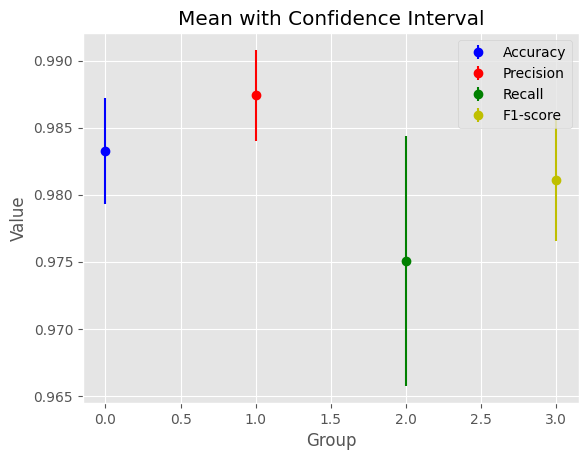
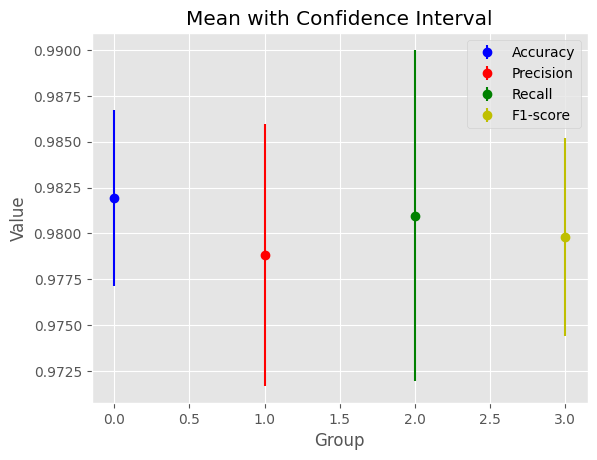
Report NN

diff --git a/report/chapters/reteNeurale.tex b/report/chapters/reteNeurale.tex
@@ -1,4 +1,4 @@
-% TODO: Aggiungere commenti ai risultati ottenuti
+% TODO: Commento intervalli di confidenza
 % TODO: rileggere la parte relativa ai risultati ottenuti
 % TODO: Confronto con il percettrone
 \chapter{Rete neurale} \label{chp:reteNeurale}
@@ -203,22 +203,32 @@ training set precedentemente definito. L'addestramento della rete neurale è sta
 effettuato utilizzando la libreria \textit{Keras} in quanto permette di definire 
 e addestrare reti neurali in modo intuitivo.
 \section{Risultati}
-Il modello addestrato in precedenza è stato valutato sui dati che compongono il
-test set. In particolare sono state valutate le seguenti metriche: accuratezza,
-precisione, richiamo e F1 score. Oltre al calcolo di queste metriche, si è
-deciso di realizzare la curva ROC per il modello e di rappresentare la matrice
-di confusione.
+Vista il dominio del problema, ovvero la classificazione di dati medici, si è
+deciso di modificare manualmente il valore della soglia per la predizione 
+del tumore. Questa scelta è stata fatta in quanto si è voluto ridurre al minimo 
+il numero di falsi negativi, ovvero il numero di casi in cui il modello predice
+l'assenza di tumore quando in realtà è presente.
 
-Prima di presentare i risultati ottenuti, è necessario specificare che essendo
-il dataset riferito a un ambito medico, si è deciso di aggiustare il valore di
-threshold per la predizione del modello. In particolare, il valore di threshold
-è stato impostato a $0.3$, in modo tale da ridurre il numero di falsi negativi.
+Per realizzare questa operazione si è scelto di impostare il valore di threshold
+a $0.3$, in modo tale da ridurre il numero di falsi negativi. Questa scelta è
+stata fatta in quanto si è voluto dare più importanza al valore di richiamo, il
+quale permette di valutare la capacità del modello di individuare i veri positivi.
 
 Fatta questa precisazione, si può procedere con la presentazione dei risultati
-ottenuti. In particolare, nella tabella \ref{tab:risultatiReteNeurale} sono
-presentati i risultati ottenuti dal modello addestrato.
-
-\begin{table}[ht]
+ottenuti. Utilizzando i dati del test set, è stato possibile valutare le 
+prestazioni della rete neurale addestrata. In particolare, sono state calcolate 
+le seguenti metriche:
+\begin{itemize}
+    \item Accuratezza
+    \item Precisione
+    \item Richiamo
+    \item F1 score
+\end{itemize}
+Oltre al calcolo di queste metriche, si è deciso di realizzare la curva ROC per 
+il modello e di rappresentare la matrice di confusione. Nella tabella 
+\ref{tab:risultatiReteNeurale} sono presentati i risultati ottenuti dal modello 
+addestrato.
+\begin{table}[!ht]
     \centering
     \begin{tabular}{|c|c|}
         \hline
@@ -237,8 +247,11 @@ presentati i risultati ottenuti dal modello addestrato.
     \label{tab:risultatiReteNeurale}
 \end{table}
 
-I risultati ottenuti sono giustificati dal fatto che le due classi sono linearmente
-separabili.
+Dai valori riportati nella tabella \ref{tab:risultatiReteNeurale} si può notare
+che la rete neurale ha ottenuto dei valori delle metriche molto alti. Questo 
+comportamento è giustificato dal fatto che in fase di analisi è stato possibile
+notare che le feature selezionate sono in grado di discriminare in modo efficace
+le due classi.
 
 In aggiunta al calcolo di queste metriche, è stata calcolata la matrice di confusione
 per il modello addestrato. La matrice di confusione ottenuta è riportata in figura
@@ -251,10 +264,17 @@ per il modello addestrato. La matrice di confusione ottenuta è riportata in fig
     \label{fig:matriceConfusioneReteNeurale}
 \end{figure}
 
-Infine, è stata realizzata la curva ROC per il modello addestrato. La curva ROC
-ottenuta è riportata in figura \ref{fig:curvaRocReteNeurale}. Oltre alla curva
-ROC è stata calcolata l'area sotto la curva, la quale ha ottenuto un valore di
-$1.00$.
+Dalla matrice di confusione è possibile confermare i risultati ottenuti dalle
+metriche calcolate in precedenza. Inoltre, avendo corretto manualmente il valore
+della soglia, si è riusciti a ridurre il numero di falsi negativi, il che ha
+permesso di aumentare il valore del richiamo.
+
+Per concludere questa prima parte di analisi dei risultati, è stata realizzata 
+la curva ROC per il modello addestrato. La curva ROC ottenuta è riportata in 
+figura \ref{fig:curvaRocReteNeurale}. Oltre alla curva ROC è stata calcolata 
+l'area sotto la curva, la quale ha ottenuto un valore di $1.00$. Questo valore
+ci permette di affermare che il modello addestrato si avvicina molto alla
+perfetta classificazione.
 
 \begin{figure}[!ht]
     \centering
@@ -262,28 +282,35 @@ $1.00$.
     \caption{Curva ROC ottenuta dal modello addestrato}
     \label{fig:curvaRocReteNeurale}
 \end{figure}
-
+\subsection*{K-fold validation}
 Per avere una visione più chiara dei risultati ottenuti, si è deciso di effettuare
 una valutazione del modello attraverso 10 fold di cross validation. In questo
 processo ogni modello che è stato addestrato è stato valutato attraverso le
 metriche di accuratezza, precisione, richiamo e F1 score.
 
+Per svolgere questa operazione è stato utilizzato il dataset completo, ovvero
+senza alcuna suddivisione in training set e test set. 
+
+Anche per questa operazione è stato utilizzato il valore di threshold precedentemente
+definito, ovvero $0.3$.
+
 Sui risultati ottenuti da questo processo sono stati calcolati gli intervalli
-di confidenza al $90\%$. I risultati ottenuti sono riportati in tabella \ref{tab:risultatiCrossValidation}.
+di confidenza al $90\%$. I risultati ottenuti sono riportati in tabella 
+\ref{tab:risultatiCrossValidation}.
 
 \begin{table}[ht]
     \centering
     \begin{tabular}{|c|c|c|}
         \hline
-        \textbf{Metrica} & \textbf{Valore} & \textbf{Intervallo di confidenza} \\
+        \textbf{Metrica} & \textbf{Valore Medio} & \textbf{Intervallo di confidenza} \\
         \hline
-        Accuratezza      & 98.32 \%        & [97.92\%, 98.72\%]                \\
+        Accuratezza      & 98.19 \%        & [97.71\%, 98.67\%]                \\
         \hline
-        Precisione       & 98.74 \%        & [98.40\%, 99.08\%]                \\
+        Precisione       & 97.88 \%        & [97.16\%, 98.59\%]                \\
         \hline
-        Richiamo         & 97.50 \%        & [96.57\%, 98.43\%]                \\
+        Richiamo         & 98.09 \%        & [97.19\%, 99.00\%]                \\
         \hline
-        F1 score         & 98.11 \%        & [97.65\%, 98.57\%]                \\
+        F1 score         & 97.97 \%        & [97.43\%, 98.52\%]                \\
         \hline
     \end{tabular}
     \caption{Risultati ottenuti dalla cross validation}
@@ -300,3 +327,5 @@ di avere una visione più chiara dei risultati ottenuti dalla cross validation.
     \caption{Risultati ottenuti dalla cross validation}
     \label{fig:risultatiCrossValidation}
 \end{figure}
+
+% TODO: Commento sugli intervalli di confidenza
